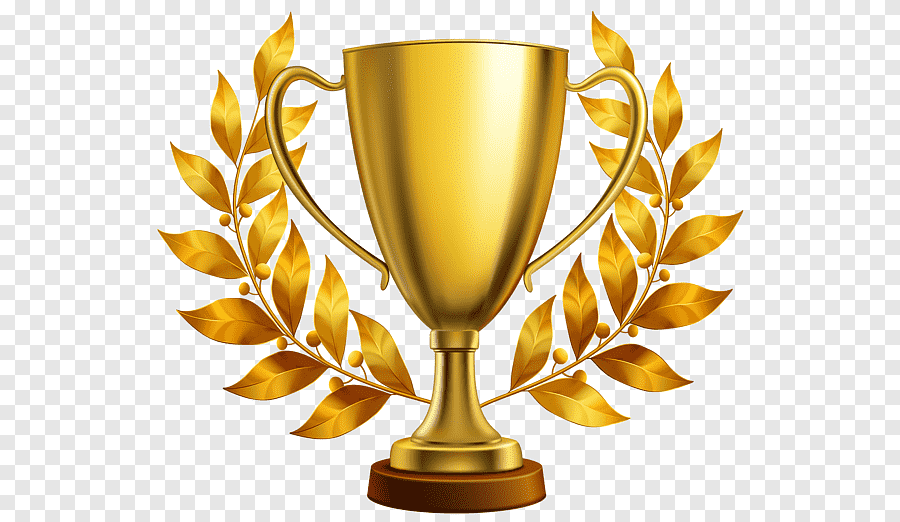
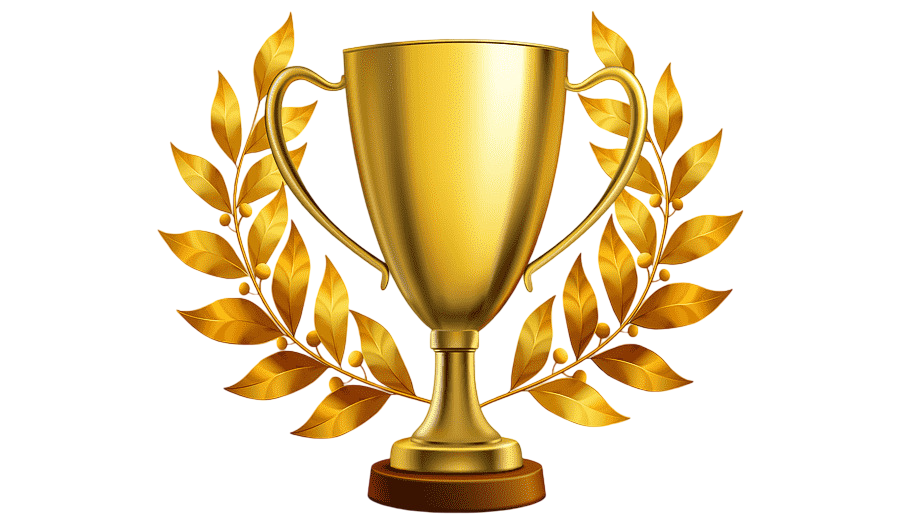
écrans de victoires

diff --git a/groupe-19/src/vue/VueMonde.java b/groupe-19/src/vue/VueMonde.java
@@ -31,8 +31,6 @@ public class VueMonde extends JPanel {
     /** true si il ne devrait plus être possible de cliquer sur les boutons, car par exemple il y a une animation en cours
      * Il faut étendre cette variable partout où c'est nécessaire**/
     public boolean jeuVerrouille = false;
-    private JLabel centerMessage;
-    private JPanel centerMessagePanel;
     private JPanel alibiPanel;
     // =========================================================================
     // Constantes monde (proprietaires de VueMonde)
@@ -57,6 +55,8 @@ public class VueMonde extends JPanel {
             (WORLD_W - BOARD_SIZE) / 2.0 - 60,
             (WORLD_H - BOARD_SIZE) / 2.0
     );
+    private JLabel centerMessage;
+    private JPanel centerMessagePanel;
 
     public void showCenterMessage(String text) {
 //        if (centerMessagePanel != null) {
@@ -96,58 +96,147 @@ public class VueMonde extends JPanel {
 //        }};
     }
 
-    public void afficherCarteAlibi(Personnage personnage) {
+    // =========================================================================
+    // Overlay générique pour affichage d'image avec texte sous l'image
+    // =========================================================================
+
+    /**
+     * Affiche une image en plein écran (overlay) avec un texte optionnel en dessous,
+     * bloque toutes les actions (jeuVerrouille = true) pendant la durée spécifiée.
+     *
+     * @param nomImage        Nom de la sprite à afficher (ex: "VictoireJ").
+     * @param texteSousImage  Texte à afficher sous l'image (peut être null).
+     * @param dureeMs         Durée d'affichage en millisecondes.
+     */
+    private void afficherOverlayAvecImage(String nomImage, String texteSousImage, int dureeMs) {
+        // Nettoyer l'overlay précédent (alibiPanel) s'il existe
         if (alibiPanel != null) {
             uiOverlay.remove(alibiPanel);
+            alibiPanel = null;
         }
 
         jeuVerrouille = true;
 
-        String spriteName = personnage.image;
-        Camera.AddSprite(spriteName);
+        // Charger l'image dans le cache si nécessaire
+        Camera.AddSprite(nomImage);
 
-        alibiPanel = new JPanel() {
+        // Récupérer l'image
+        BufferedImage img = Camera.GetSpriteImage(nomImage);
+
+        // Panneau personnalisé pour l'image + texte
+        JPanel overlayPanel = new JPanel() {
             @Override
             protected void paintComponent(Graphics g) {
                 super.paintComponent(g);
+                Graphics2D g2 = (Graphics2D) g;
+                g2.setRenderingHint(RenderingHints.KEY_INTERPOLATION,
+                                    RenderingHints.VALUE_INTERPOLATION_BILINEAR);
 
-                BufferedImage img = Camera.GetSpriteImage(spriteName);
-                if (img == null) return;
+                // Fond semi-transparent
+                g2.setColor(new Color(0, 0, 0, 200));
+                g2.fillRect(0, 0, getWidth(), getHeight());
 
-                int panelW = getWidth();
-                int panelH = getHeight();
+                // Récupérer l'image (si elle a changé entre temps)
+                BufferedImage currentImg = Camera.GetSpriteImage(nomImage);
+                if (currentImg == null) {
+                    currentImg = img;
+                }
 
-                int drawW = img.getWidth();
-                int drawH = img.getHeight();
+                if (currentImg != null) {
+                    int imgW = currentImg.getWidth();
+                    int imgH = currentImg.getHeight();
+                    int x = (getWidth() - imgW) / 2;
+                    int y = (getHeight() - imgH) / 2;
 
-                int x = (panelW - drawW) / 2;
-                int y = (panelH - drawH) / 2;
-                g.setColor(new Color(0, 0, 0, 200));
-                g.fillRect(0, 0, getWidth(), getHeight());
-                g.drawImage(img, x, y, drawW, drawH, null);
+                    // Si du texte est présent, remonter légèrement l'image pour laisser la place
+                    if (texteSousImage != null && !texteSousImage.isEmpty()) {
+                        g2.setFont(new Font("SansSerif", Font.BOLD, 48));
+                        FontMetrics fm = g2.getFontMetrics();
+                        int textH = fm.getHeight();
+                        y = (getHeight() - imgH - textH - 30) / 2;
+                    }
+
+                    g2.drawImage(currentImg, x, y, imgW, imgH, null);
+
+                    // Afficher le texte sous l'image si demandé
+                    if (texteSousImage != null && !texteSousImage.isEmpty()) {
+                        g2.setFont(new Font("SansSerif", Font.BOLD, 48));
+                        g2.setColor(Color.WHITE);
+                        FontMetrics fm = g2.getFontMetrics();
+                        int textX = (getWidth() - fm.stringWidth(texteSousImage)) / 2;
+                        int textY = y + imgH + fm.getHeight() + 10;
+                        g2.drawString(texteSousImage, textX, textY);
+                    }
+                } else {
+                    // Fallback si l'image n'existe pas
+                    String fallback = (texteSousImage != null) ? texteSousImage : nomImage;
+                    g2.setFont(new Font("SansSerif", Font.BOLD, 48));
+                    g2.setColor(Color.WHITE);
+                    FontMetrics fm = g2.getFontMetrics();
+                    int textX = (getWidth() - fm.stringWidth(fallback)) / 2;
+                    int textY = (getHeight() - fm.getHeight()) / 2;
+                    g2.drawString(fallback, textX, textY);
+                }
             }
         };
 
-        alibiPanel.setOpaque(false);
-        alibiPanel.setBounds(0, 0, uiOverlay.getWidth(), uiOverlay.getHeight());
-        JPanel currentPanel = alibiPanel;
-        uiOverlay.add(alibiPanel, JLayeredPane.POPUP_LAYER);
+        overlayPanel.setOpaque(false);
+
+        // Obtenir les dimensions valides (uiOverlay peut avoir taille 0 au premier appel)
+        int w = uiOverlay.getWidth();
+        int h = uiOverlay.getHeight();
+
+        // Si uiOverlay n'a pas encore de taille, utiliser celle du layeredPane parent
+        if (w <= 0 || h <= 0) {
+            java.awt.Container parent = uiOverlay.getParent();
+            if (parent != null) {
+                w = parent.getWidth();
+                h = parent.getHeight();
+            }
+        }
+
+        // Fallback ultime : utiliser WORLD_W et WORLD_H
+        if (w <= 0 || h <= 0) {
+            w = WORLD_W;
+            h = WORLD_H;
+        }
+
+        overlayPanel.setBounds(0, 0, w, h);
+        uiOverlay.add(overlayPanel, JLayeredPane.POPUP_LAYER);
         uiOverlay.revalidate();
         uiOverlay.repaint();
 
-        // auto-suppression après 2 secondes
-        new javax.swing.Timer(2000, e -> {
-            uiOverlay.remove(currentPanel);
-            alibiPanel = null;
-
+        // Suppression automatique après la durée demandée
+        JPanel finalPanel = overlayPanel;
+        new javax.swing.Timer(dureeMs, e -> {
+            uiOverlay.remove(finalPanel);
             jeuVerrouille = false;
-
             uiOverlay.revalidate();
             uiOverlay.repaint();
         }) {{
             setRepeats(false);
             start();
         }};
+    }
+
+        // Méthode afficherCarteAlibi mise à jour
+    public void afficherCarteAlibi(Personnage personnage) {
+        String spriteName = personnage.image;
+        afficherOverlayAvecImage(spriteName, null, 2000);
+    }
+
+    // Méthode showGameOverScreen mise à jour
+    public void showGameOverScreen(String vainqueur) {
+        String imageName;
+        if (vainqueur != null && vainqueur.toLowerCase().contains("jack")) {
+            imageName = "VictoireJ";
+            String message = "Jack l'emporte";
+            afficherOverlayAvecImage(imageName, message, 3000);
+        } else {
+            imageName = "VictoireE";
+            String message = "Victoire de Sherlock Holmes";
+            afficherOverlayAvecImage(imageName, message, 3000);
+        }
     }
 
     // -------------------------------------------------------------------------
@@ -720,15 +809,6 @@ public class VueMonde extends JPanel {
             playerRects[player].revalidate();
             playerRects[player].repaint();
         }
-    }
-
-    public void showGameOverScreen(String vainqueur) {
-        gameOverLabel = new JLabel(vainqueur + " a gagne !", SwingConstants.CENTER);
-        gameOverLabel.setFont(new Font("SansSerif", Font.BOLD, 64));
-        gameOverLabel.setForeground(Color.RED);
-        gameOverLabel.setBounds(300, 350, 600, 100);
-        uiOverlay.add(gameOverLabel);
-        uiOverlay.revalidate();
     }
 
     public void hideGameOverScreen() {

diff --git a/groupe-19/src/MrJackPocket.java b/groupe-19/src/MrJackPocket.java
@@ -9,7 +9,7 @@ import javax.swing.*;
 import java.awt.*;
 
 public class MrJackPocket {
-    public static boolean menu = false;
+    public static boolean menu = true;
     public static boolean simulePartieIa = false;
     public static void main(String[] args) {
         // Simulation de parties entre IA
